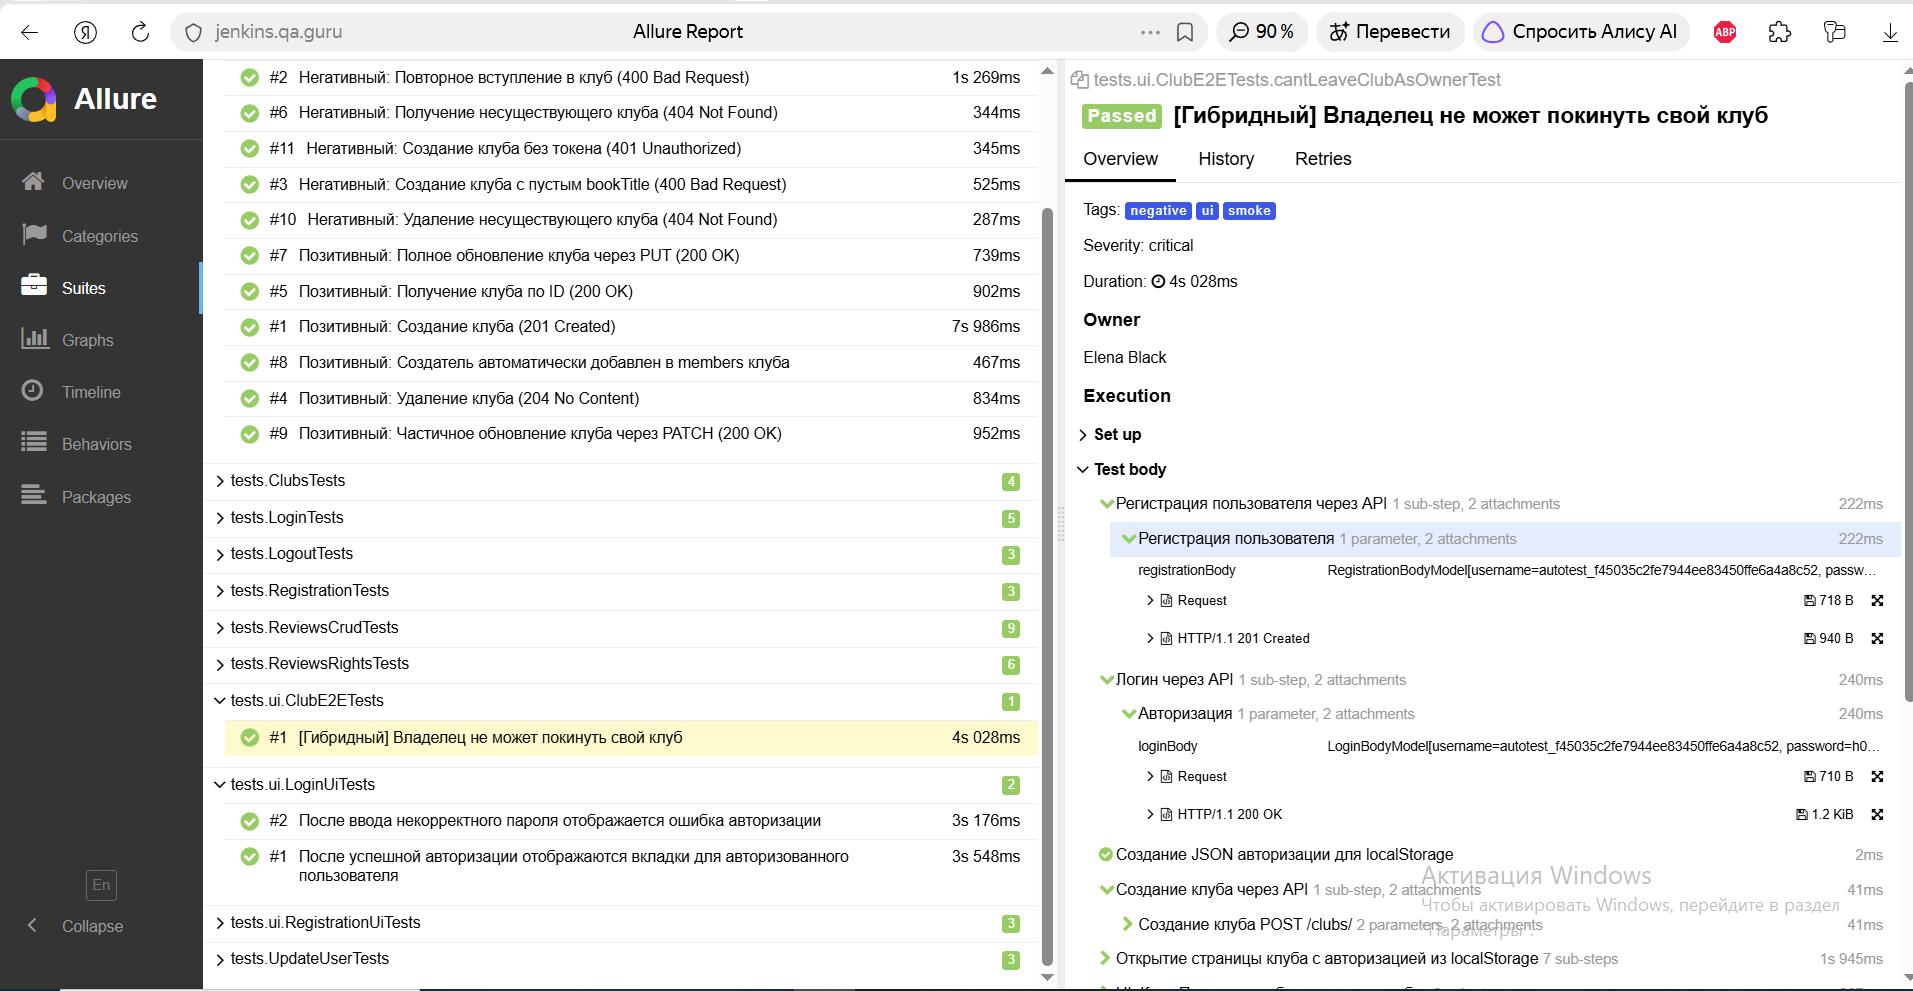
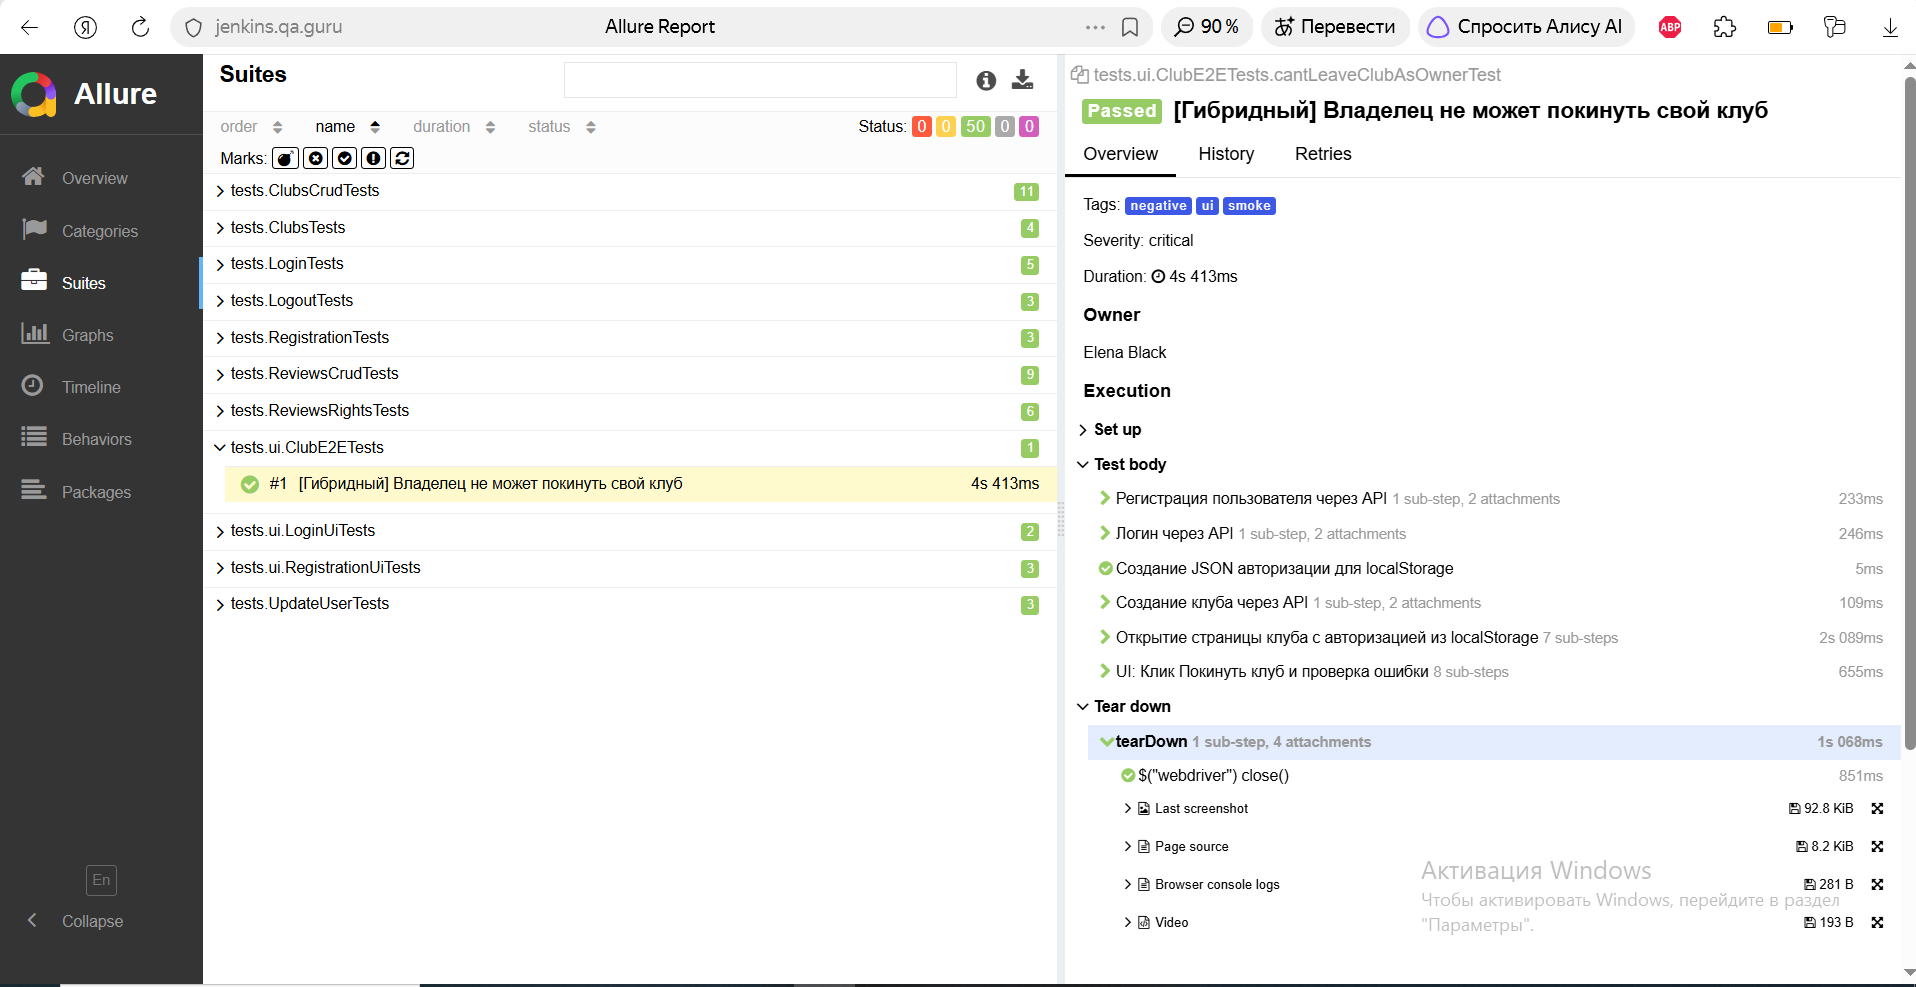
added images

diff --git a/README.md b/README.md
@@ -1,13 +1,14 @@
 # Book Club Automation (Дипломный проект QA.GURU)
 
-[![Jenkins](https://img.shields.io/badge/Jenkins-CI%2FCD-blue)](https://jenkins.qa.guru/view/java-students/job/ESPro-book-club-diploma/)
-[![Allure Report](https://img.shields.io/badge/Allure-Report-green)](https://jenkins.qa.guru/view/java-students/job/ESPro-book-club-diploma/allure/)
+[![Jenkins](https://img.shields.io/badge/Jenkins-CI%2FCD-blue)](https://jenkins.qa.guru/view/java_students/job/ESPro-book-club-diploma/)
+[![Allure Report](https://img.shields.io/badge/Allure-Report-green)](https://jenkins.qa.guru/view/java_students/job/ESPro-book-club-diploma/18/allure/)
 
 Комплексный фреймворк для автоматизации тестирования учебного сервиса **Book Club** (`book-club.qa.guru`).
 Проект представляет собой единый тестируемый контур, объединяющий **Web UI** и **API** тесты.
 
 > **Mobile-тесты:** В соответствии с требованиями к диплому, мобильные автотесты (Appium) вынесены в отдельный независимый репозиторий.
 > 🔗 [qa-guru-wikipedia-mobile](https://github.com/ESProshina/qa-guru-wikipedia-mobile)
+
 ## 🛠 Стек технологий
 * **Java 21**
 * **Selenide** (UI-автоматизация)
@@ -23,6 +24,11 @@
 * **UI-тесты:** Логин, регистрация, проверка ошибок.
 * **Сквозной E2E-тест:** Создание клуба через API, авторизация в UI через Local Storage и проверка прав в интерфейсе.
 
+## 📊 CI/CD и Отчетность
+* Настроен Jenkins Pipeline с запуском тестов в облачном **Selenoid**.
+* В Allure Report прикрепляются все необходимые артефакты: **скриншоты**, **Page Source**, **логи браузера** и **видеозапись** прохождения каждого UI-теста (благодаря встроенным возможностям Selenoid).
+* Настроена интеграция с **Telegram** (через `allure-notifications`). *Примечание: в учебном CI-окружении QA.GURU отправка сообщений ограничена настройками корпоративного прокси, однако пайплайн полностью сконфигурирован.*
+
 ## 📸 Скриншоты
 
 ### 1. Общий вид Allure Report (100% Passed)
@@ -34,9 +40,15 @@
 ### 3. Сквозной E2E-тест (UI + API)
 ![Allure E2E](images/img_2.png)
 
-### 4. Jenkins Job
+### 4. Видеозапись теста (Selenoid)
+*(Скриншот встроенного плеера с видеозаписью выполнения теста)*
+![Allure Video](images/img_video.png)
+
+### 5. Jenkins Job
 ![Jenkins](images/img_3.png)
 
-[Тест-план (Manual & Automated)](TEST_PLAN.md)).
+## 📋 Документация
+* [Тест-план (Manual & Automated)](TEST_PLAN.md)
+
 ---
 **Автор:** Елена Прошина (QA Automation Engineer)
